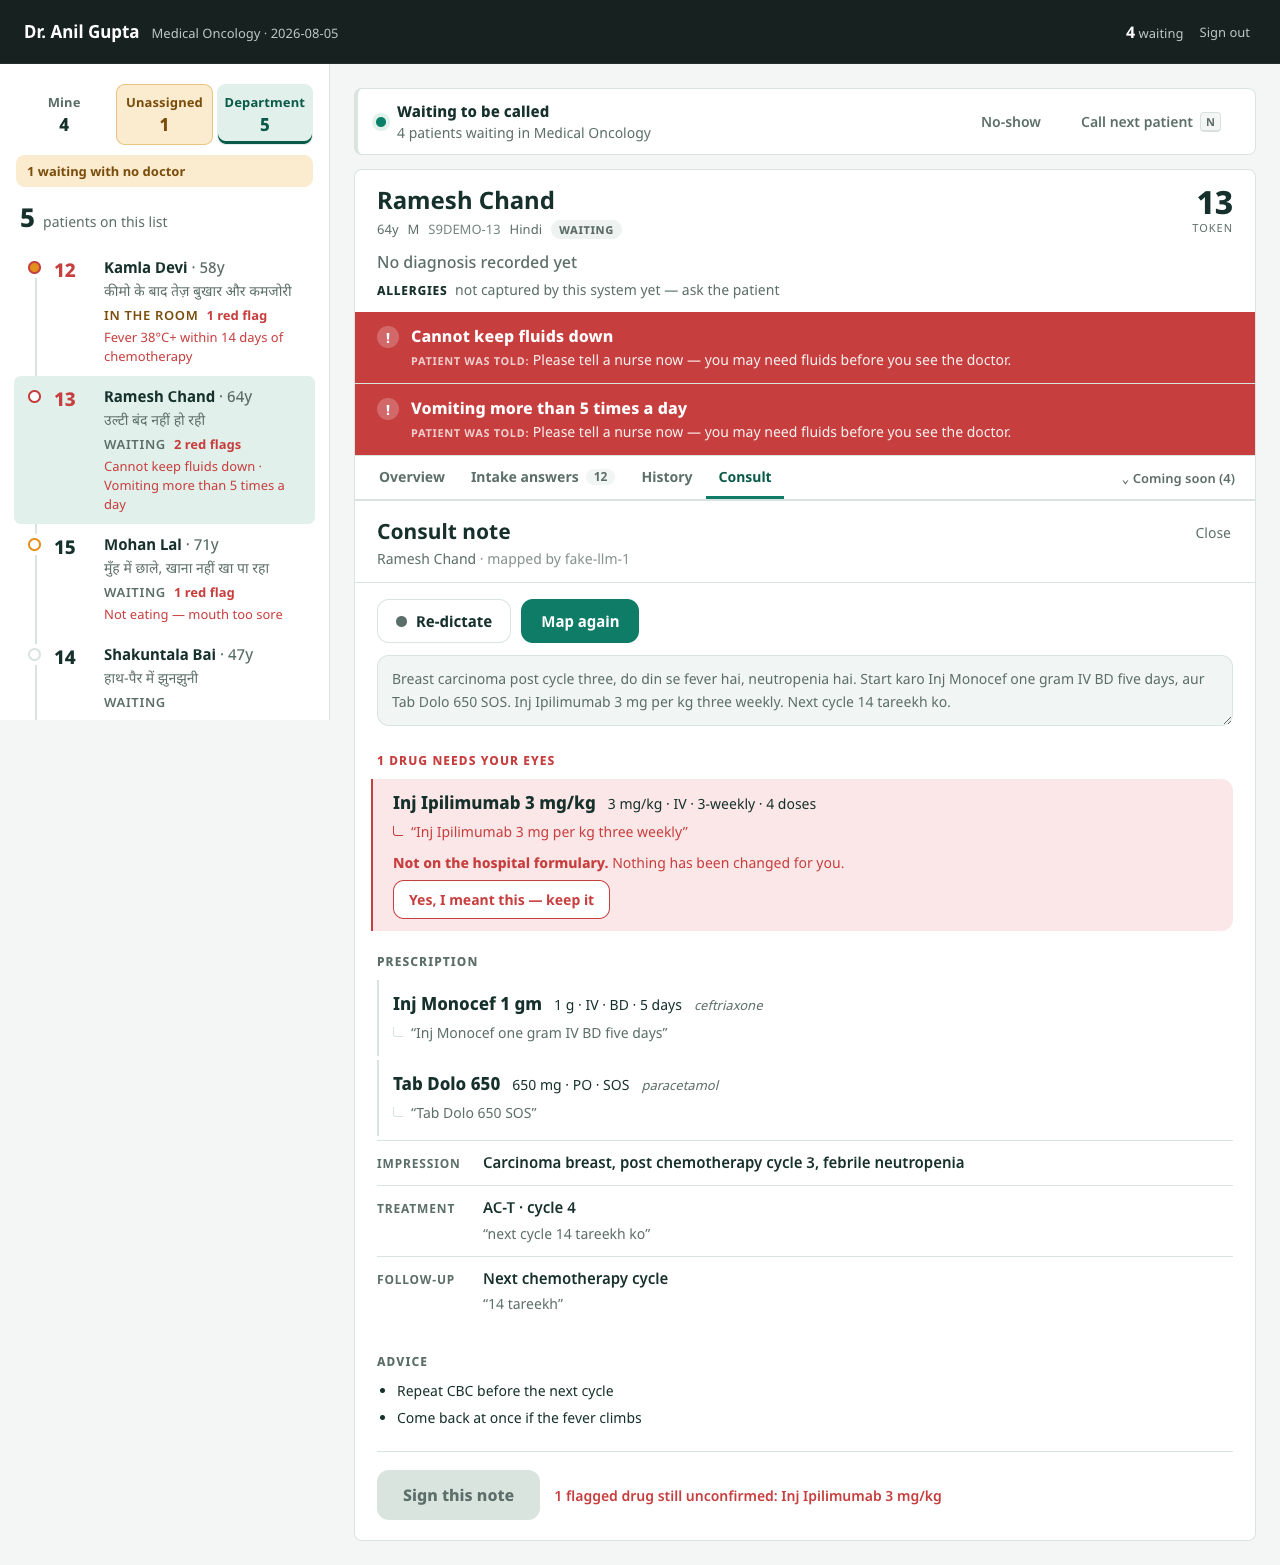
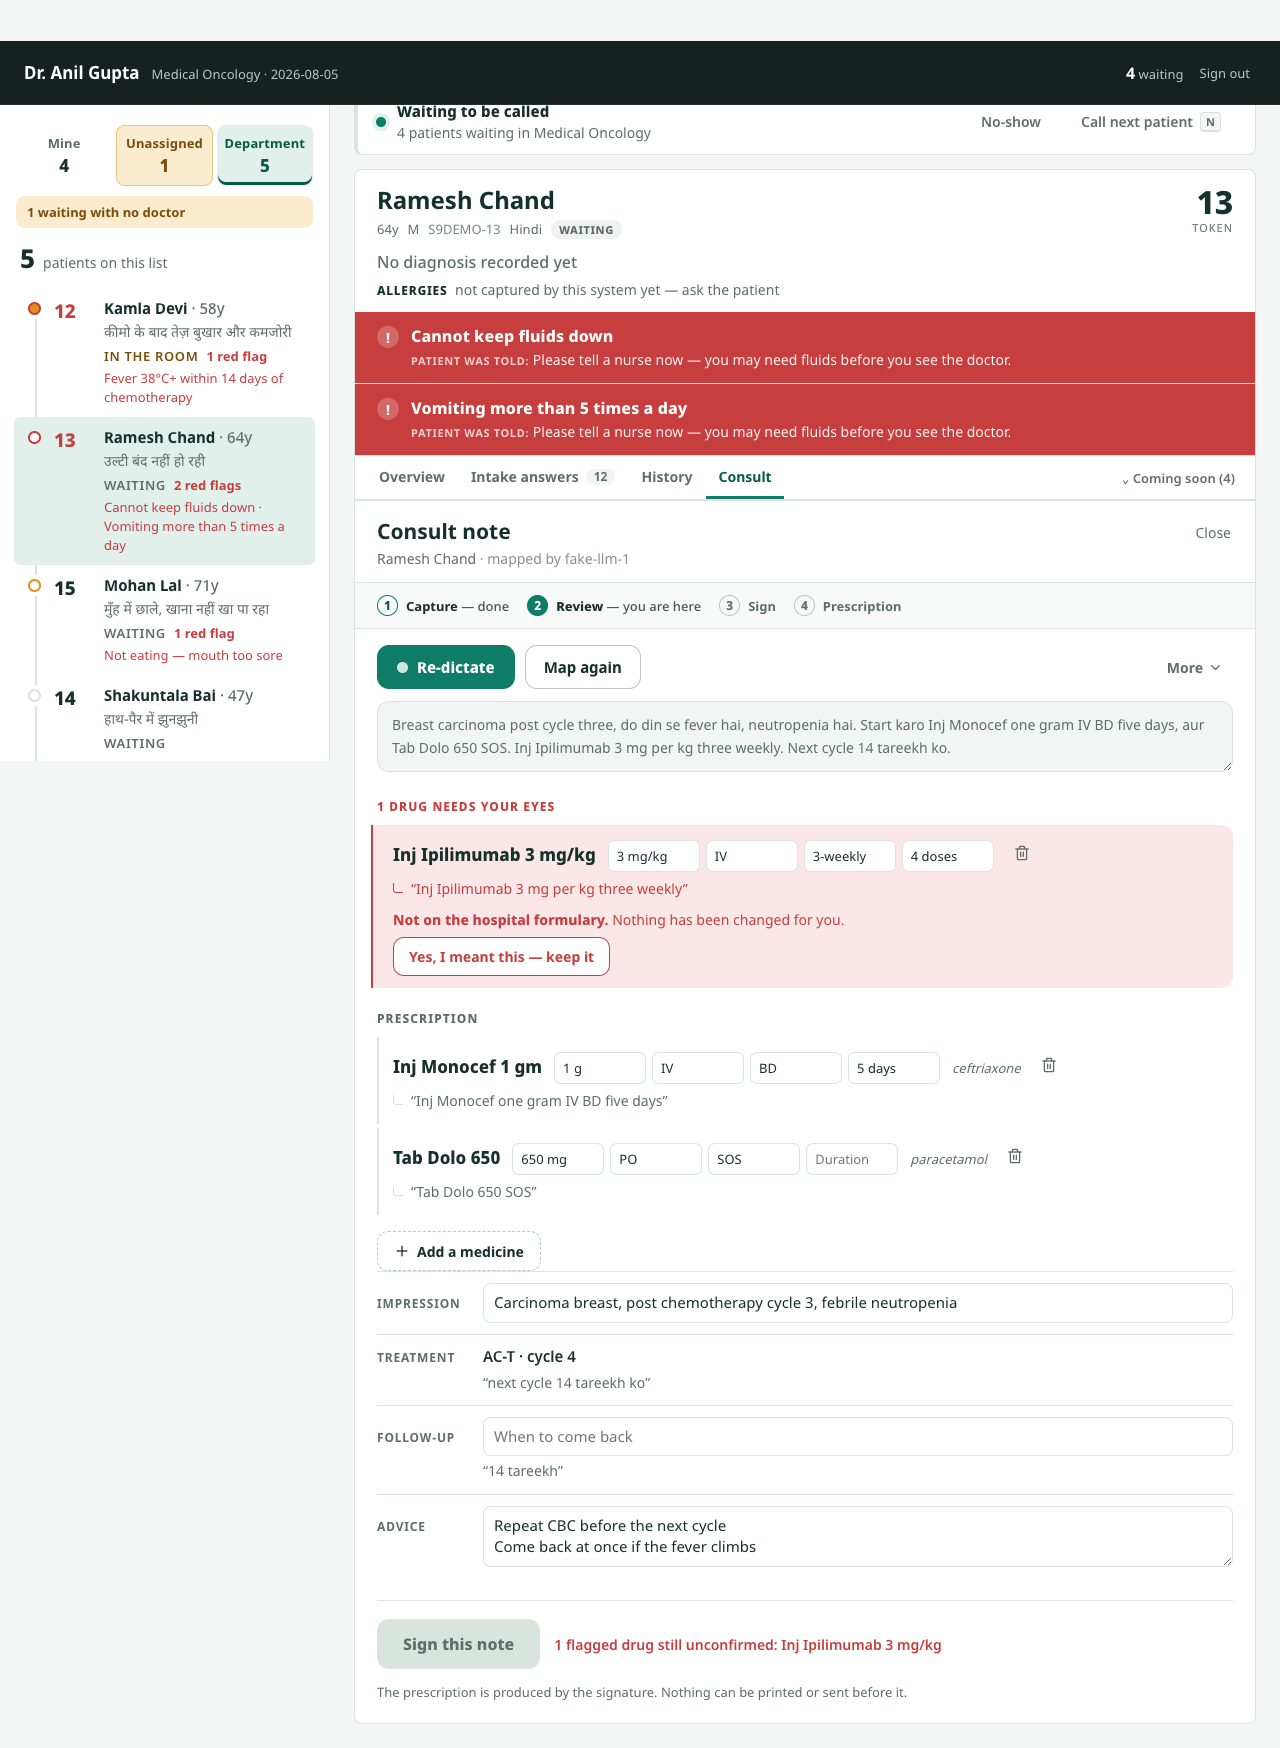
S C4: drive the two new paths from the E2E, and stop calling a typed drug untraceable
Session C's acceptance criteria as tests: a prescription produced with no speech
at all, print unreachable before the signature, and a paper script that leaves a
record instead of a blank visit — checked in the browser and read back off the
API.

`completeConsult` in the doctor spec answers the conclusion dialog when it
appears, because completing is a conclusion now. The full-morning test calls a
patient in rather than inheriting whoever the previous test left in the room.

Found by the screenshot: a typed note's medicine rows said "not traceable to
anything in the transcript" — a warning about a drug the doctor typed with their
own hands, on a note that never had a transcript. They now say so.

Changed region(s): [[0.0, 0.0, 1.0, 0.9815], [0.625, 0.3374, 0.6875, 0.3681], [0.5625, 0.6441, 0.5938, 0.6748]]

diff --git a/web/e2e/doctor.spec.ts b/web/e2e/doctor.spec.ts
@@ -34,6 +34,28 @@ async function loginToken(request: import("@playwright/test").APIRequestContext)
   return cachedAccessToken;
 }
 
+/**
+ * Finish the consult on the stage.
+ *
+ * Completing is a *conclusion* now, not a bare queue transition (plan §5.3b): a
+ * visit that simply stops cannot be told apart from one the doctor was
+ * interrupted in the middle of. With a signed note it stays one tap; without
+ * one the dialog opens and has to be answered, which is the point of it.
+ */
+async function completeConsult(
+  page: import("@playwright/test").Page,
+  mode: "external_manual" | "none" = "none",
+) {
+  await page.click("[data-testid='complete-consult']");
+  const dialog = page.getByTestId("conclude-dialog");
+  await dialog.waitFor({ state: "visible", timeout: 2000 }).catch(() => {});
+  if (await dialog.count()) {
+    await page.getByTestId(`rx-mode-${mode}`).click();
+    await page.getByTestId("conclude-confirm").click();
+    await expect(dialog).toHaveCount(0);
+  }
+}
+
 async function signedIn(page: import("@playwright/test").Page, token: string) {
   await page.addInitScript((t) => localStorage.setItem("opd_staff_token", t), token);
   await page.goto("/doctor");
@@ -217,7 +239,7 @@ test("N calls the next patient, and the rail follows", async ({ page, request })
   await signedIn(page, token);
 
   // Finish the patient in the room so there is a next one to call.
-  await page.click("[data-testid='complete-consult']");
+  await completeConsult(page);
   await expect(page.locator(".station .stok").first()).not.toHaveText("12");
 
   await page.keyboard.press("n");
@@ -225,6 +247,56 @@ test("N calls the next patient, and the rail follows", async ({ page, request })
   const called = page.locator(".station.is-active .sname");
   await expect(called).toContainText("Ramesh Chand");
   await page.screenshot({ path: `${SHOTS}/05-called-next.png`, fullPage: true });
+});
+
+test("a paper prescription is written down rather than left as a blank visit", async ({
+  page,
+  request,
+}) => {
+  // Plan §5.3b. The doctor who writes on the OPD pad has finished the consult;
+  // until now that left a visit indistinguishable from an abandoned one.
+  const token = await loginToken(request);
+  await signedIn(page, token);
+
+  const called = page.locator(".station.called, .station.in_consult");
+  if ((await called.count()) === 0) await page.keyboard.press("n");
+  await expect(called.first()).toBeVisible();
+  const start = page.getByTestId("start-consult");
+  if (await start.count()) await start.click();
+
+  // Which visit this is, so the record can be read back afterwards.
+  const day = await request.get(`${API}/doctor/day?scope=department`, {
+    headers: { Authorization: `Bearer ${token}` },
+  });
+  const row = (await day.json()).rows.find(
+    (r: { state: string }) => r.state === "in_consult" || r.state === "called",
+  );
+  expect(row).toBeTruthy();
+
+  await page.click("[data-testid='complete-consult']");
+  const dialog = page.getByTestId("conclude-dialog");
+  await expect(dialog).toBeVisible();
+
+  // The warning names what will not exist, rather than the prototype's vague
+  // "won't capture this visit findings". Vague warnings get clicked through.
+  await page.getByTestId("rx-mode-external_manual").click();
+  await expect(dialog).toContainText("No consult note and no digital prescription");
+  await expect(dialog).toContainText("The pharmacy will have no digital copy");
+  await expect(dialog).toContainText("Follow-up reminders cannot be generated");
+  await page.screenshot({ path: `${SHOTS}/10-conclude.png` });
+
+  await dialog.locator("textarea").fill("Written on the OPD pad.");
+  await page.getByTestId("conclude-confirm").click();
+  await expect(dialog).toHaveCount(0);
+
+  // The record says how it ended, and the queue entry is done.
+  const card = await request.get(`${API}/doctor/patients/${row.visit_id}`, {
+    headers: { Authorization: `Bearer ${token}` },
+  });
+  const body = await card.json();
+  expect(body.rx_mode).toBe("external_manual");
+  expect(body.conclusion_note).toBe("Written on the OPD pad.");
+  expect(body.entry_state).toBe("done");
 });
 
 test("D opens the consult note for the patient on the stage", async ({ page, request }) => {
@@ -249,8 +321,14 @@ test("a full morning: lab re-queue, no-show, and consults completed", async ({ p
 
   // Send the patient in the room to the lab: they leave the front and rejoin
   // at the back of their priority (the S8 queue verb, not a console rule).
+  // The room may be empty — the test before this one concludes whoever was in
+  // it — so call someone in first rather than assuming the previous test's
+  // leftovers.
+  if ((await page.locator(".station.called, .station.in_consult").count()) === 0) {
+    await page.keyboard.press("n");
+    await expect(page.locator(".station.called, .station.in_consult")).not.toHaveCount(0);
+  }
   const firstName = await page.locator(".station").first().locator(".sname").textContent();
-  // Earlier tests in this file leave whoever they called sitting in `called`.
   // Lab re-queue is only legal from `in_consult`, so start the consult first —
   // the encounter bar offers exactly the transition the state machine allows.
   const start = page.getByTestId("start-consult");
@@ -270,7 +348,7 @@ test("a full morning: lab re-queue, no-show, and consults completed", async ({ p
     } else {
       await page.click("[data-testid='start-consult']");
       await expect(page.locator(".station.in_consult")).not.toHaveCount(0);
-      await page.click("[data-testid='complete-consult']");
+      await completeConsult(page);
     }
     await expect(page.locator(".station.called, .station.in_consult")).toHaveCount(0);
   }
@@ -280,7 +358,7 @@ test("a full morning: lab re-queue, no-show, and consults completed", async ({ p
   const atLab = page.locator(".station.lab_requeue");
   while ((await atLab.count()) > 0) {
     await atLab.first().locator("button").first().click();
-    await page.click("[data-testid='complete-consult']");
+    await completeConsult(page);
     await page.waitForTimeout(200);
   }
 

diff --git a/web/e2e/dictation.spec.ts b/web/e2e/dictation.spec.ts
@@ -189,6 +189,83 @@ test("signing locks the note", async ({ page, request }) => {
   await expect(page.locator(".dict-signed")).toBeVisible();
 });
 
+// -- Session C: the paths that do not go through a model ----------------------
+
+test("a prescription is produced with no speech at all", async ({ page, request }) => {
+  // Session C's acceptance criterion. "Type note" opens the same record with no
+  // model in the loop, and everything downstream — the formulary verdict, the
+  // signature, the prescription — is the path a dictated note takes.
+  //
+  // It works the row the first test only *opened*, because signing is terminal
+  // and every other row is spoken for. Re-seed (`python -m
+  // scripts.seed_doctor_demo`) before a second run of this file.
+  await openConsole(page, await loginToken(request), ROW.opens);
+  await page.keyboard.press("d");
+  await expect(page.locator(".dict h2")).toHaveText("Consult note");
+  await expect(
+    page.locator(".dict-signed"),
+    "this row is already signed from an earlier run — re-seed the demo first",
+  ).toHaveCount(0);
+
+  // The four steps are stated, and the doctor is at the first of them.
+  await expect(page.getByTestId("step-capture")).toHaveClass(/is-now/);
+
+  await page.getByTestId("type-note").click();
+
+  // No transcript, no model, and the fields are open anyway.
+  await expect(page.getByTestId("step-review")).toHaveClass(/is-now/);
+  await expect(page.locator(".dict-nomeds")).toBeVisible();
+
+  await page.getByTestId("add-med").click();
+  await page.getByTestId("add-med-name").fill("Tab Augmentin 625");
+  await page.getByLabel("Frequency").first().fill("BD");
+  await page.getByLabel("Duration").first().fill("5 days");
+  await page.getByTestId("add-med-save").click();
+  await expect(page.locator(".med-name").first()).toHaveText("Tab Augmentin 625");
+
+  await page.getByLabel("Impression").fill("Acute tonsillitis");
+  await page.locator(".dict-review").click(); // blur commits the field
+
+  // Print is unreachable before approval: there is no prescription to print,
+  // and the sign bar says so rather than showing a disabled button.
+  await expect(page.getByTestId("print-patient")).toHaveCount(0);
+  await expect(page.getByTestId("pre-print-note")).toContainText("produced by the signature");
+  await page.screenshot({ path: `${SHOTS}/06-typed-note.png`, fullPage: true });
+
+  await expect(page.getByTestId("sign-note")).toBeEnabled();
+  await page.getByTestId("sign-note").click();
+
+  await expect(page.getByTestId("prescription-issued")).toBeVisible({ timeout: 15_000 });
+  await expect(page.locator(".rx-name").first()).toContainText("Tab Augmentin 625");
+  await expect(page.getByTestId("print-patient")).toBeVisible();
+  await page.evaluate(() => window.scrollTo(0, 0));
+  await page.screenshot({ path: `${SHOTS}/07-typed-prescription.png`, fullPage: true });
+});
+
+test("a mapping failure keeps the transcript instead of eating it", async ({ page, request }) => {
+  // The server-side half of this — the fields opening on a recorded failure, and
+  // that state reaching a signature — is `test_dictation.py`'s
+  // `test_a_failed_mapping_still_reaches_a_signature_and_a_prescription`; a live
+  // stack with a working fake model cannot be made to fail honestly from here.
+  // What this proves is the part only a browser can: the doctor's words are
+  // still on screen after the request fails.
+  await openConsole(page, await loginToken(request), ROW.maps);
+  await page.route("**/dictation/*/map", (route) =>
+    route.fulfill({
+      status: 503,
+      contentType: "application/json",
+      body: JSON.stringify({ detail: "the mapping model is unreachable" }),
+    }),
+  );
+
+  await page.keyboard.press("d");
+  await page.fill(".dict-transcript", NOTE);
+  await page.click(".dict-map");
+
+  await expect(page.locator(".dict-err")).toContainText("unreachable");
+  await expect(page.locator(".dict-transcript")).toHaveValue(NOTE);
+});
+
 test("a signed note cannot be re-dictated, even over the API", async ({ request }) => {
   const token = await loginToken(request);
   const day = await request.get(`${API}/doctor/day?scope=department`, {

diff --git a/web/app/(doctor)/doctor/_components/DictationPanel.tsx b/web/app/(doctor)/doctor/_components/DictationPanel.tsx
@@ -122,6 +122,9 @@ export function DictationPanel({
   const signed = dictation?.status === "signed";
   const fields = dictation?.fields ?? null;
   const mappingFailed = !!dictation?.mapping_error && !dictation?.mapped;
+  // No transcript at all: this note was typed, and the provenance lines have to
+  // say so rather than reporting a missing transcript as a failure to trace.
+  const typedNote = !!dictation && !(dictation.transcript ?? "").trim();
 
   // True once the doctor has touched the transcript for this visit. The panel
   // renders immediately and loads the stored note a moment later, so without
@@ -466,7 +469,7 @@ export function DictationPanel({
 
             {fields && (
               <button
-                className="dict-remap"
+                className="dict-map"
                 onClick={onMap}
                 disabled={!!busy || !transcript.trim() || recording}
               >
@@ -474,7 +477,7 @@ export function DictationPanel({
               </button>
             )}
             {!fields && !recording && transcript.trim() && (
-              <button className="dict-remap" onClick={onMap} disabled={!!busy}>
+              <button className="dict-map" onClick={onMap} disabled={!!busy}>
                 {busy === "mapping" ? "Mapping…" : "Map to fields"}
               </button>
             )}
@@ -563,6 +566,7 @@ export function DictationPanel({
                   key={`${med.name}-${index}`}
                   med={med}
                   locked={signed}
+                  typed={typedNote}
                   onAcknowledge={() => acknowledge(index)}
                   onEdit={(key, value) => editMed(index, key, value)}
                   onDelete={() => removeMed(index)}
@@ -579,6 +583,7 @@ export function DictationPanel({
                   key={`${med.name}-${index}`}
                   med={med}
                   locked={signed}
+                  typed={typedNote}
                   onAcknowledge={() => acknowledge(index)}
                   onEdit={(key, value) => editMed(index, key, value)}
                   onDelete={() => removeMed(index)}
@@ -736,12 +741,17 @@ function clock(seconds: number): string {
 function MedRow({
   med,
   locked,
+  typed,
   onAcknowledge,
   onEdit,
   onDelete,
 }: {
   med: Med;
   locked: boolean;
+  /** Nothing was ever dictated on this note, so there is no transcript for a
+   *  line to be traceable *to*. Saying "not traceable" here would read as a
+   *  warning about a drug the doctor typed with their own hands. */
+  typed: boolean;
   onAcknowledge: () => void;
   onEdit: (key: keyof Med, value: string) => void;
   onDelete: () => void;
@@ -826,7 +836,11 @@ function MedRow({
       <div className="med-spoken">
         <span className="med-tick" aria-hidden="true" />
         <span className="med-heard">
-          {med.as_spoken ? `“${med.as_spoken}”` : "not traceable to anything in the transcript"}
+          {med.as_spoken
+            ? `“${med.as_spoken}”`
+            : typed
+              ? "typed by you — nothing was dictated on this note"
+              : "not traceable to anything in the transcript"}
         </span>
       </div>
 

diff --git a/web/app/(doctor)/doctor/_components/consoleStyles.ts b/web/app/(doctor)/doctor/_components/consoleStyles.ts
@@ -404,10 +404,10 @@ export const DICTATION_CSS = `
   50% { opacity: .45; transform: scale(1.35); } }
 
 /* Typing is equally legitimate and plainly styled — not a lesser path. */
-.dict-type, .dict-remap { min-height: 44px; border: 1.5px solid var(--line-strong);
+.dict-type, .dict-map { min-height: 44px; border: 1.5px solid var(--line-strong);
   background: var(--surface); color: var(--ink); font: inherit; font-size: 15px;
   font-weight: 700; padding: 11px 18px; border-radius: 12px; cursor: pointer; }
-.dict-type:disabled, .dict-remap:disabled, .dict-dictate:disabled { opacity: .5; cursor: default; }
+.dict-type:disabled, .dict-map:disabled, .dict-dictate:disabled { opacity: .5; cursor: default; }
 
 /* the escape hatch: reachable, never the loudest thing on the screen */
 .dict-more { position: relative; margin-left: auto; }

diff --git a/backend/tests/test_dictation.py b/backend/tests/test_dictation.py
@@ -530,6 +530,51 @@ async def test_a_typed_note_still_refuses_an_unacknowledged_flag(
     assert dictation.status is DictationStatus.DRAFT
 
 
+async def test_a_failed_mapping_still_reaches_a_signature_and_a_prescription(
+    session: AsyncSession,
+) -> None:
+    """The acceptance criterion for §5.2: the model being down is not a reason a
+    patient goes home without a prescription. The transcript survives, the
+    fields open, the doctor fills them, and the signature is the same one."""
+    clinic, visit = await _clinic_with_visit(session)
+    dictation = await dic.start(
+        session,
+        visit_id=visit.id,
+        doctor=clinic["doctor"],
+        transcript="tonsillitis hai, Tab Augmentin 625 BD five days",
+    )
+    dead = FakeLLMProvider()
+    dead.fail_with = RuntimeError("vLLM is down")
+
+    with pytest.raises(dic.MappingUnavailable):
+        await dic.map_transcript(
+            session,
+            dictation=dictation,
+            doctor=clinic["doctor"],
+            mapper=dic.DictationMapper([dead]),
+        )
+
+    dictation = await dic.apply_corrections(
+        session,
+        dictation=dictation,
+        doctor=clinic["doctor"],
+        patch={
+            "diagnosis": "Acute tonsillitis",
+            "meds": [{"name": "Tab Augmentin 625", "freq": "BD", "duration": "5 days"}],
+        },
+    )
+    signed = await dic.sign(session, dictation=dictation, doctor=clinic["doctor"])
+
+    assert signed.status is DictationStatus.SIGNED
+    assert signed.transcript == "tonsillitis hai, Tab Augmentin 625 BD five days"
+    # The failure stays on the record — this note was not model-mapped, and the
+    # diff screen must not imply it was.
+    assert signed.structured["mapped"] is None
+    assert signed.structured["mapping_error"]
+    rx = await prescription_svc.for_dictation(session, dictation_id=signed.id)
+    assert rx is not None and rx.meds[0]["name"] == "Tab Augmentin 625"
+
+
 async def test_a_second_failed_mapping_does_not_wipe_what_the_doctor_typed(
     session: AsyncSession,
 ) -> None:
